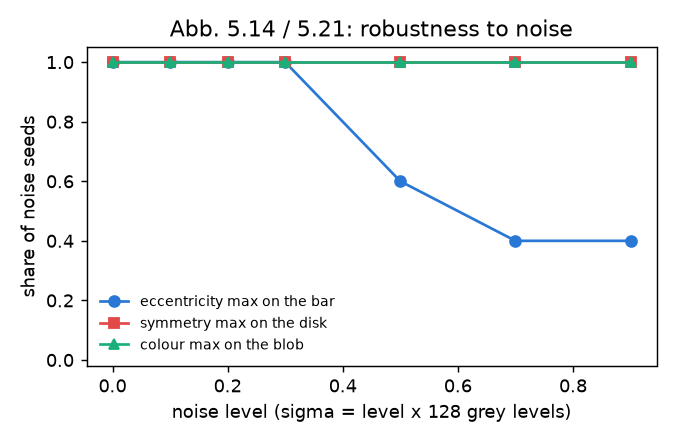
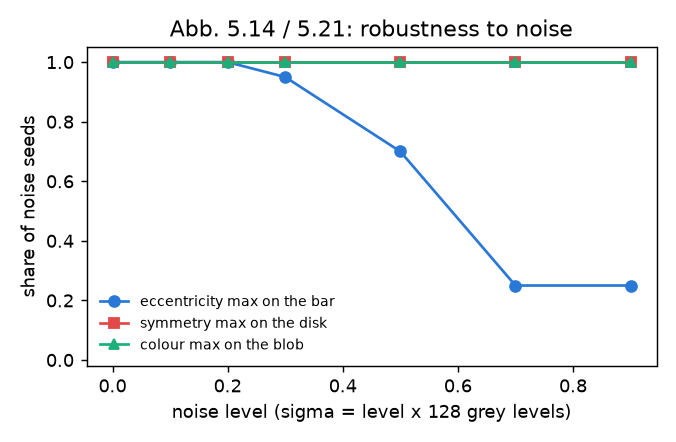
Dossier: the symmetry one-sided ratio and the noise experiments at 20 seeds
The one-sided share of a closed contour's symmetry response is 0.78 / 0.40 /
0.32 for disk radius 12 / 24 / 40 — not a fixed fraction, which is why a
relative threshold cannot remove those responses; with the thesis's offset the
lone edge falls to 0.09. Replaces "about a quarter" (header) and "about half"
(dossier) with one measured range.

Noise at 20 seeds per level instead of 5: eccentricity holds 19 of 20 seeds at
sigma 38, 14 of 20 at 64, 5 of 20 beyond; colour and symmetry hold every seed at
every level. No verdict changes.

Claude-Session: https://claude.ai/code/session_01QTe5gEqgxfcCrGE5XzVLdo

diff --git a/include/attention/features/symmetry_feature.h b/include/attention/features/symmetry_feature.h
@@ -27,10 +27,14 @@ namespace features
  *   3. Per point, the maximum over the radius bands of
  *        band + index * bonus - clip_offset,
  *      clipped to [0, 1]. The offset is what makes this a *symmetry* measure:
- *      the sum is additive, so an edge on one side alone already contributes —
- *      about a quarter of what a closed contour does. A fixed offset on an
- *      absolute scale removes those one-sided responses; a relative threshold
- *      cannot (see below).
+ *      the sum is additive, so an edge on one side alone already scores. How
+ *      much depends on how the object's size matches the radius bands —
+ *      measured on a lone disk against a lone straight edge of the same
+ *      contrast, 0.78 / 0.40 / 0.32 of the disk's centre response for radius
+ *      12 / 24 / 40 px (`eval/replication.py --only symmetry-sides`). Because
+ *      it is not a fixed fraction, a *relative* threshold cannot remove those
+ *      responses; a fixed offset on an absolute scale can, and does: with the
+ *      thesis's 60/255 the lone edge falls to 0.09 of the disk.
  *   4. Multi-scale (thesis Tab. 5.1): the same on the working image halved once
  *      and twice; the results are combined by maximum, scale s weighted by
  *      0.5 + 0.5 s.
@@ -47,8 +51,7 @@ namespace features
  * What the surviving source does not settle: the gain of the original Gabor
  * implementation ("factor = 4 + size/12", commented "Warum??????" there), which
  * fixes what "60 of 255" means. Here the edge energy is calibrated so that a
- * full-contrast step edge is 1 and `gabor_gain` scales it; with gain 1 a closed
- * contour of contrast c sums to about 4c, a one-sided edge to about c.
+ * full-contrast step edge is 1 and `gabor_gain` scales it.
  */
 class SymmetryFeature : public FeatureExtractor
 {

diff --git a/paper/replication/main.tex b/paper/replication/main.tex
@@ -325,9 +325,14 @@ side of it}; the global maximum lay off the object for every disk size tried,
 without noise. The summation core was a faithful port. What differed was what
 followed it: the original works on an absolute scale---edge magnitudes clipped,
 then a fixed offset (60 of 255) subtracted from every radius band---which removes
-the response that an edge on \emph{one} side alone produces---the sum over the
-two boxes is additive, so such a response is a substantial fraction of a closed
-contour's \todo{measure the ratio on the ported feature and state it}. The reimplementation had instead normalised each band to its
+the response that an edge on \emph{one} side alone produces. The summation is
+additive over the two opposite boxes, so a lone edge scores a large share of a
+closed contour's response---measured against a disk of the same contrast, 0.78,
+0.40 and 0.32 for radius 12, 24 and 40~px. The share is not constant: it depends
+on how the object's size matches the radius bands, which is exactly why a
+relative threshold cannot remove those responses and a fixed offset on an
+absolute scale can (with the thesis's 60/255 the lone edge falls to 0.09 of the
+disk). The reimplementation had instead normalised each band to its
 own maximum and applied relative thresholds. With no absolute reference, a
 one-sided response is as strong as a true centre and appears as a ring around
 every object. After porting the combination step, a lone disk peaks at its centre

diff --git a/docs/replication/REPLICATION_DOSSIER.md b/docs/replication/REPLICATION_DOSSIER.md
@@ -36,7 +36,7 @@ been ported from the original and the affected rows re-run.
 | 1 | Abb. 5.10 | Eccentricity is 0 for round shapes and high for elongated ones | **replicated** |
 | 2a | Abb. 5.13 | Stretching an object raises its eccentricity response, monotonically | **replicated** — on the thesis's eq. 5.6 to within 0.02 |
 | 2b | Abb. 5.13 | … and lowers its symmetry response | **replicated** after the symmetry port (0.67 → 0.15, monotone); *diverged* before it (finding A) |
-| 3a | Abb. 5.14 | The eccentricity maximum stays on its object under added noise | **replicated** up to σ ≈ 38 grey levels; degrades beyond |
+| 3a | Abb. 5.14 | The eccentricity maximum stays on its object under added noise | **replicated** up to σ ≈ 38 grey levels (19 of 20 seeds); degrades beyond |
 | 3b | Abb. 5.14 | The symmetry maximum stays on its object under added noise | **replicated** after the port — on the object at every noise level, up to σ ≈ 115; *diverged* before it (finding A) |
 | 4 | Abb. 5.15 | Eccentricity segmentation is plausible for a growth threshold of 0.5–0.75 | **partially** — stable in 0.5–0.75 as claimed, but less flat than the thesis suggests (map correlation 0.64–0.78 with the default) |
 | 5 | Abb. 5.16 | … and for a merge threshold of 12–36 (default 20) | **replicated** — correlation ≥ 0.88 over the whole range 4–48 |
@@ -98,8 +98,20 @@ between the disks" that the video study met (`docs/VLM_VIDEO.md`) — here
 isolated.
 
 The cause is not the summation core, which is a line-for-line port of the
-original `symmetry_intern` (the sum over the two opposite boxes is *additive*, so
-an edge on one side alone already contributes about half of a true symmetry).
+original `symmetry_intern`. That core is *additive* over the two opposite boxes,
+so an edge on one side alone already scores — measured on a lone disk against a
+lone straight edge of the same contrast, with the per-band bonus off and at two
+gains that agree to five decimals (`--only symmetry-sides`):
+
+| disk radius (px) | 12 | 24 | 40 |
+|---|---|---|---|
+| lone edge / disk centre, raw sum | **0.78** | **0.40** | **0.32** |
+| … with the thesis's clip offset (radius 24) | | **0.09** | |
+
+The share is not a fixed fraction: it depends on how the object's size matches
+the radius bands (6–15 px at the working size), and it is largest for the
+smallest objects. That is precisely why a *relative* threshold cannot remove
+one-sided responses and an absolute offset can.
 It is what happens afterwards. The original works on an absolute scale — Gabor
 magnitudes clipped at 255, then a fixed offset of 60 subtracted from each radius
 band — which removes exactly those one-sided half-responses. The
@@ -130,12 +142,13 @@ which.
 
 ![share of noise seeds for which a feature's maximum stays on its object](figures/noise.png)
 
-Normally distributed noise, σ = level × 128 grey levels, five seeds per level.
-The eccentricity maximum stays on the bar up to level 0.3 (σ ≈ 38) and is lost
-for half the seeds beyond; the colour-contrast maximum stays on the blob at
-every level, up to σ ≈ 115 (the blob-minus-ground contrast falls only from 1.00
-to 0.91). The symmetry maximum stays on the disk at every level as well, with
-the bar in the scene or without. (The figure is from the re-run.)
+Normally distributed noise, σ = level × 128 grey levels, **twenty seeds per
+level** (five until 2026-09-22; the thesis gives no count). The eccentricity
+maximum stays on the bar for 20 of 20 seeds up to σ ≈ 26, 19 of 20 at σ ≈ 38,
+14 of 20 at σ ≈ 64 and 5 of 20 beyond. The colour-contrast maximum stays on the
+blob for every seed at every level, up to σ ≈ 115 (the blob-minus-ground
+contrast falls only from 1.00 to 0.93). The symmetry maximum stays on the disk
+for every seed at every level as well, with the bar in the scene or without.
 
 *A side finding:* eccentricity histogram-equalizes its input, as the original
 does. On a synthetic image with three grey levels that maps a *bright* object

diff --git a/paper/replication/CLAIMS.md b/paper/replication/CLAIMS.md
@@ -19,7 +19,7 @@ Source for all rows: `docs/replication/REPLICATION_DOSSIER.md`; command
 | 1.1 | 24 findings: 22 replicated, 2 partially | summary table (24 rows; #4 and #10 partial) | — | ok |
 | 1.2 | Eccentricity on eq. 5.6: 2:1 ellipse 0.354 vs 0.360, 8:1 bar 0.934 vs 0.940; disk, square 0.000 | finding 1 | `shapes` | ok |
 | 1.3 | Stretching: eccentricity within 0.02 of eq. 5.6; symmetry 0.67 → 0.15 monotone; before the port 0.67 → 0.50 → 0.87 → 0.82 | finding 2 | `ecc-variation` | ok (the "before" numbers need commit `a506646~1` to regenerate) |
-| 1.4 | Eccentricity maximum on its object up to σ ≈ 38; colour and symmetry at every level up to σ ≈ 115; 5 seeds per level | finding 3 | `gray-noise`, `colour-noise` | check — 5 seeds per level is thin for a paper figure; raise to 20 |
+| 1.4 | Noise, **20 seeds per level**: eccentricity on the bar 20/20 to σ≈26, 19/20 at σ≈38, 14/20 at σ≈64, 5/20 beyond; colour and symmetry 20/20 at every level; colour contrast 1.00→0.93 | finding 3 | `--only gray-noise,colour-noise` (`--noise-seeds`, default 20); `results/replication_noise20` | ok — re-measured 2026-09-22, was 5 seeds |
 | 1.5 | Growth threshold: map correlation 0.64–0.78 in 0.5–0.75, 0.06 at 0.4 | finding 4 | `grow-threshold` | ok |
 | 1.6 | Merge threshold: correlation ≥ 0.88 over 4–48 | finding 5 | `merge-threshold` | ok |
 | 1.7 | Colour response 0.00 → 0.32 → 0.81 → 0.98 → 1.00 | finding 6 | `colour-variation` | ok |
@@ -29,7 +29,7 @@ Source for all rows: `docs/replication/REPLICATION_DOSSIER.md`; command
 | 1.11 | Orientations under noise: 0.84 → 0.92 → 0.91 (σ 90) | finding 14 | `stereo-orientations` | ok |
 | 1.12 | Variance threshold, synthetic: ≤ 5 admits the textureless band (89% wrong), ≥ 20 rejects it, ≥ 40 starts dropping correct pixels | finding 15 | `stereo-variance` | ok |
 | 1.13 | Middlebury (Tsukuba, Venus, Sawtooth): 82–85% within 1 px at threshold 3; wrong share 12–20% at any threshold; 81–86% correct on low-texture pixels at threshold 0 | finding 15b | `stereo-real` (needs `data/Middlebury`) | ok |
-| 1.14 | Finding A: lone disk maximum off the object for radius 12/24/40 before; after the port peaks 0.43/0.82/0.99 at the centre, single edge 0.08 | finding A | `shapes` + `tests/test_thesis_features.cpp` | check — the paper wants the ratio one-sided : closed contour stated; the header says "about a quarter", the dossier "about half". Measure once and use one number everywhere |
+| 1.14 | Finding A: lone disk maximum off the object for radius 12/24/40 before the port; after it peaks 0.43/0.82/0.99 at the centre, single edge 0.08. One-sided share of a closed contour: 0.78/0.40/0.32 for radius 12/24/40 (raw sum, gain-invariant), 0.09 with the thesis's offset | finding A | `--only shapes`, `--only symmetry-sides`; `results/replication_symmetry_sides` | ok — measured 2026-09-22; the one number is a range by radius, stated as such in the header, the dossier and the paper |
 | 1.15 | Finding B table: merge at 5 / re-split at 13; noise 0.000 up to 1.2, 0.7% at 1.4; hysteresis 0.55 / 0.25; convergence 10 cycles; port defaults never merge, switch at 0.35 | findings 16–21 | `field` (wraps `build/field_dynamics --params esab2\|port`) | ok; depends on the input blob shape (σ = 3 px), say so |
 | 1.16 | Tracking table (cycles needed by amplitude × speed) | finding 20 | `field` | ok |
 | 1.17 | Text vs code: V\*Bench top-3 0.152 vs 0.105 (−0.047 [−0.099, +0.010]); COCO-Search18 found@10 0.37 vs 0.34; MIT1003 own-scanpath ScanMatch 0.545 vs 0.529 (−0.016 [−0.023, −0.008]) on 200 images | "Text or code?" | `text-vs-code`; `eval/coverage_table.py`, `eval/coco_search.py --config`, `eval/scanpath_vs_human.py --profile` | ok; only the MIT1003 and H1 rows are used in the paper |
